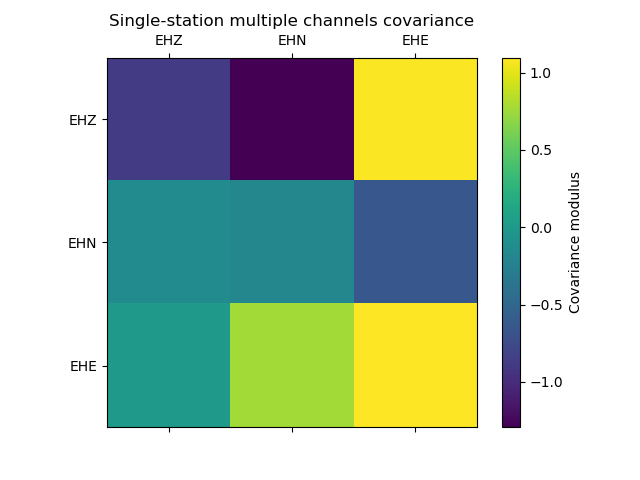
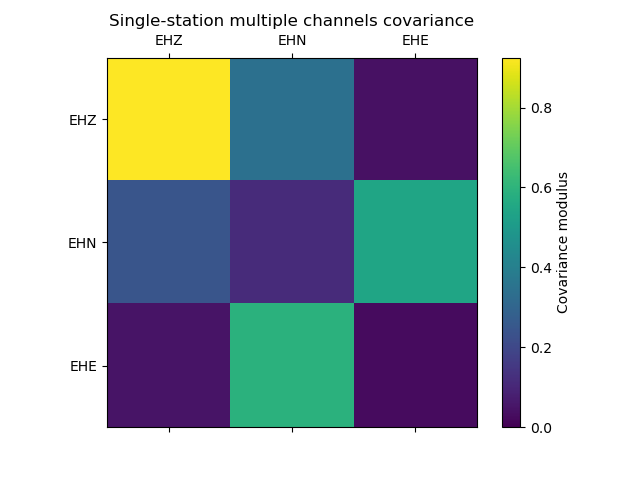
Configuration of sphinx-gallery

diff --git a/docs/source/_static/pygments.css b/docs/source/_static/pygments.css
@@ -75,4 +75,4 @@
 .highlight .vi { color: #000000 } /* Name.Variable.Instance */
 .highlight .vm { color: #000000 } /* Name.Variable.Magic */
 .highlight .il { color: #1aa5d8;} /* Literal.Number.Integer.Long */
-.highlight a {text-decoration-thickness: 0 !important; }
+a[class^="sphx-glr-backref-"] { text-decoration: none; } /* Sphinx Gallery link to module */

diff --git a/docs/source/auto_examples/plot_example_1.py b/docs/source/auto_examples/plot_example_1.py
@@ -36,11 +36,11 @@ channels = [trace.stats.channel for trace in stream]
 # )
 
 # show covariance from first window and first frequency
-covariance_show = np.random.randn(3, 3)
+covariance_show = np.random.rand(3, 3)
 
 # Show
 fig, ax = plt.subplots()
-mappable = ax.matshow(covariance_show)
+mappable = ax.matshow(covariance_show, vmin=0)
 
 # Labels
 ax.set_xticks(range(len(channels)), labels=channels)

diff --git a/examples/plot_example_1.py b/examples/plot_example_1.py
@@ -36,11 +36,11 @@ channels = [trace.stats.channel for trace in stream]
 # )
 
 # show covariance from first window and first frequency
-covariance_show = np.random.randn(3, 3)
+covariance_show = np.random.rand(3, 3)
 
 # Show
 fig, ax = plt.subplots()
-mappable = ax.matshow(covariance_show)
+mappable = ax.matshow(covariance_show, vmin=0)
 
 # Labels
 ax.set_xticks(range(len(channels)), labels=channels)

diff --git a/docs/source/conf.py b/docs/source/conf.py
@@ -61,6 +61,7 @@ sphinx_gallery_conf = {
     "gallery_dirs": "auto_examples",
     "image_srcset": ["4x"],
     "reset_modules": ("matplotlib"),
+    "download_all_examples": False,
 }
 
 # Add any paths that contain templates here, relative to this directory.

diff --git a/docs/source/auto_examples/plot_example_1.rst b/docs/source/auto_examples/plot_example_1.rst
@@ -83,11 +83,11 @@ estimated over 5 consecutive windows.
     # )
 
     # show covariance from first window and first frequency
-    covariance_show = np.random.randn(3, 3)
+    covariance_show = np.random.rand(3, 3)
 
     # Show
     fig, ax = plt.subplots()
-    mappable = ax.matshow(covariance_show)
+    mappable = ax.matshow(covariance_show, vmin=0)
 
     # Labels
     ax.set_xticks(range(len(channels)), labels=channels)
@@ -101,7 +101,7 @@ estimated over 5 consecutive windows.
 
 .. rst-class:: sphx-glr-timing
 
-   **Total running time of the script:** (0 minutes 0.545 seconds)
+   **Total running time of the script:** (0 minutes 0.421 seconds)
 
 
 .. _sphx_glr_download_auto_examples_plot_example_1.py:

diff --git a/docs/source/auto_examples/index.rst b/docs/source/auto_examples/index.rst
@@ -44,18 +44,6 @@ Gallery
    /auto_examples/plot_example_1
 
 
-.. only:: html
-
-  .. container:: sphx-glr-footer sphx-glr-footer-gallery
-
-    .. container:: sphx-glr-download sphx-glr-download-python
-
-      :download:`Download all examples in Python source code: auto_examples_python.zip </auto_examples/auto_examples_python.zip>`
-
-    .. container:: sphx-glr-download sphx-glr-download-jupyter
-
-      :download:`Download all examples in Jupyter notebooks: auto_examples_jupyter.zip </auto_examples/auto_examples_jupyter.zip>`
-
 
 .. only:: html
 

diff --git a/docs/source/sg_execution_times.rst b/docs/source/sg_execution_times.rst
@@ -6,7 +6,7 @@
 
 Computation times
 =================
-**00:00.545** total execution time for 1 file **from all galleries**:
+**00:00.421** total execution time for 1 file **from all galleries**:
 
 .. container::
 
@@ -33,5 +33,5 @@ Computation times
      - Time
      - Mem (MB)
    * - :ref:`sphx_glr_auto_examples_plot_example_1.py` (``../../examples/plot_example_1.py``)
-     - 00:00.545
+     - 00:00.421
      - 0.0

diff --git a/docs/source/auto_examples/sg_execution_times.rst b/docs/source/auto_examples/sg_execution_times.rst
@@ -6,7 +6,7 @@
 
 Computation times
 =================
-**00:00.545** total execution time for 1 file **from auto_examples**:
+**00:00.421** total execution time for 1 file **from auto_examples**:
 
 .. container::
 
@@ -33,5 +33,5 @@ Computation times
      - Time
      - Mem (MB)
    * - :ref:`sphx_glr_auto_examples_plot_example_1.py` (``plot_example_1.py``)
-     - 00:00.545
+     - 00:00.421
      - 0.0
